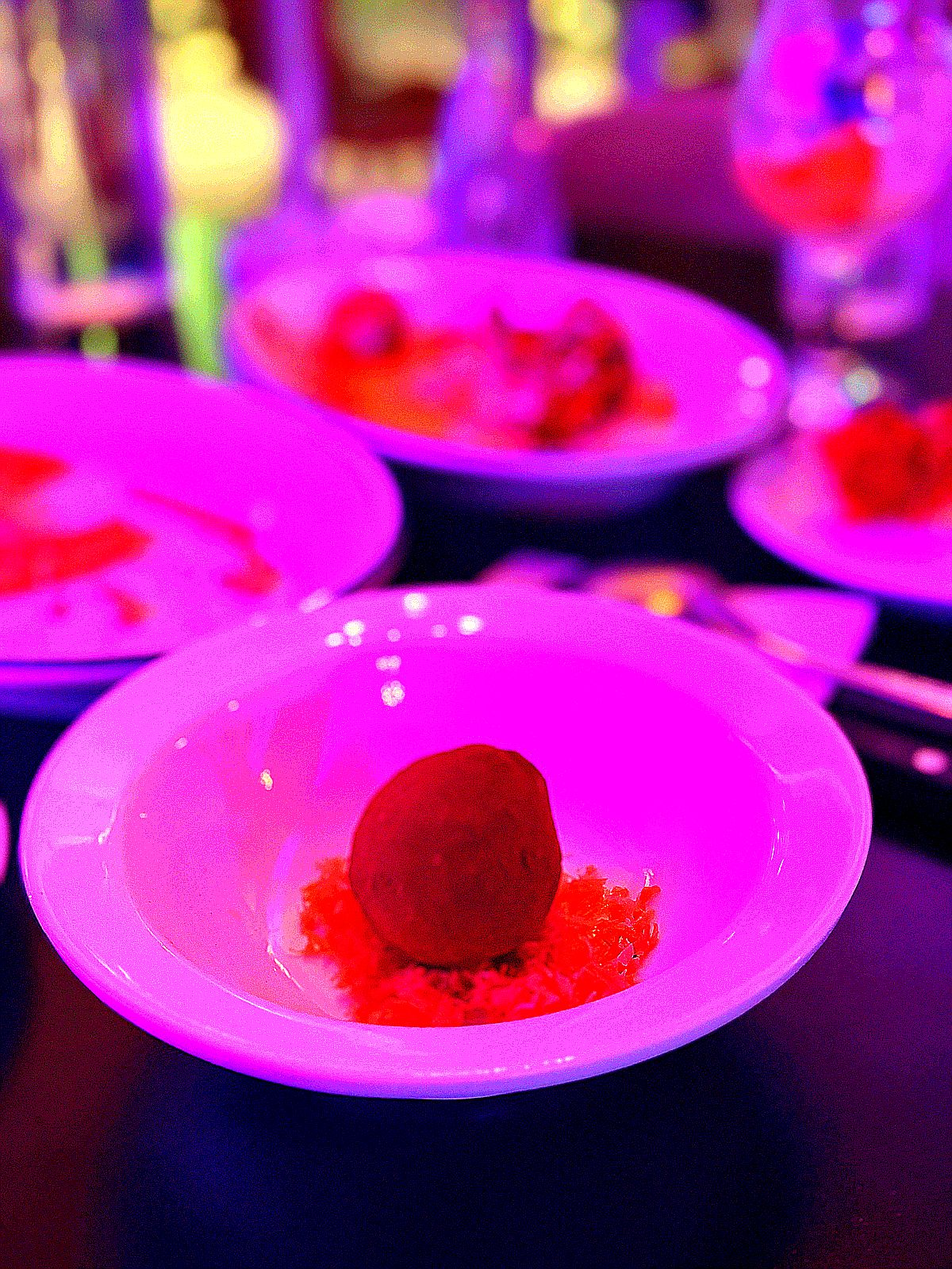
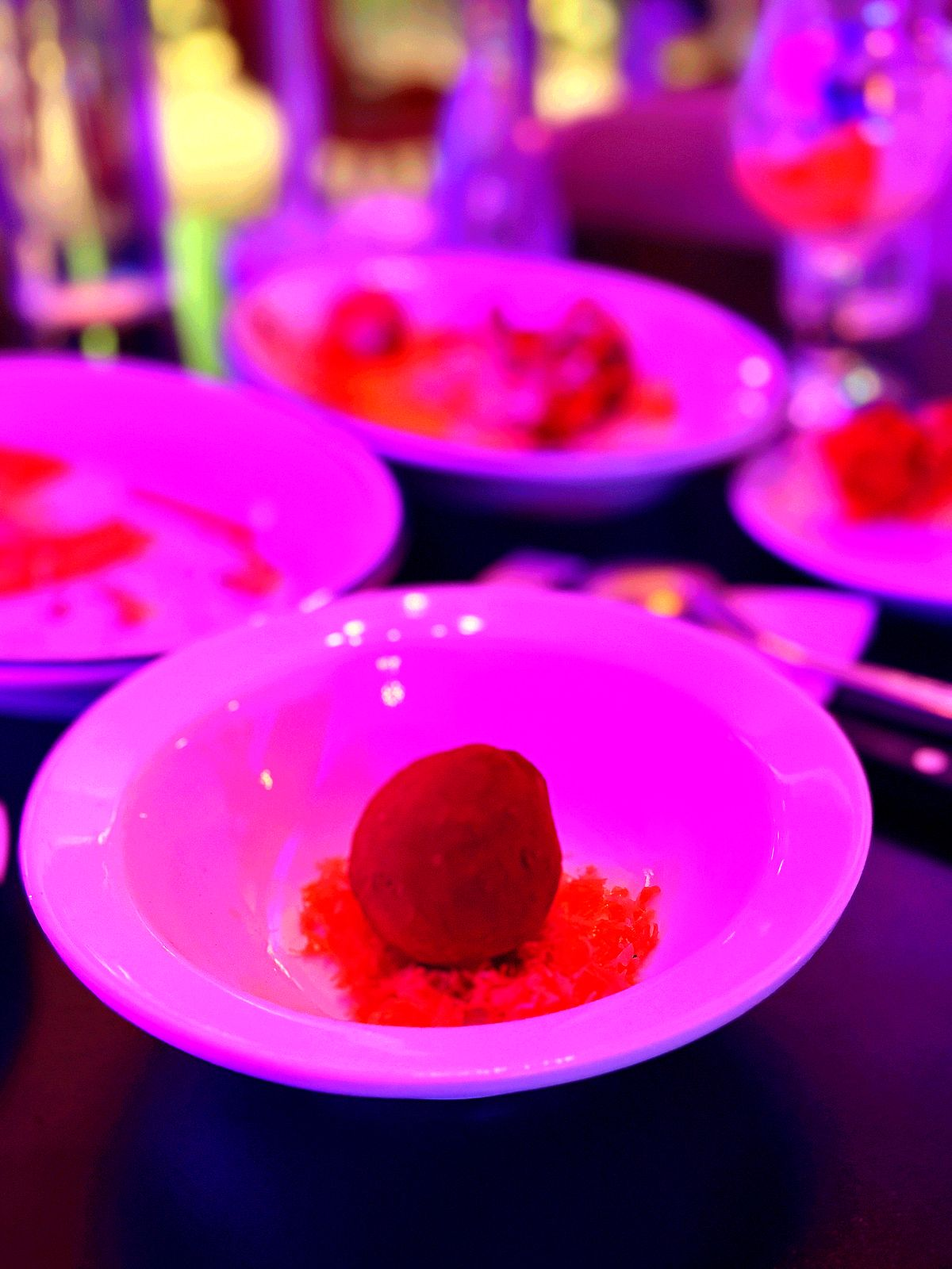
style: 블로그 그레이스클럽 파티 후기 이미지 전체 재생성 및 프라이빗 정보 제거
- 구글드라이브 원본 이미지 기반 일러스트화 (5장)
- 차 모니터 그림체와 동일한 효과 적용
- 파티장 2층 이미지 얼굴 블러 처리 (개인정보 보호)
- 웹 최적화 (JPEG 80% 품질, 1200px 이하 리사이징)

🤖 Generated with [Claude Code](https://claude.com/claude-code)

diff --git a/edit_grace_club_images.py b/edit_grace_club_images.py
@@ -1,0 +1,116 @@
+#!/usr/bin/env python3
+"""
+그레이스클럽 후기 블로그 이미지 일러스트화 스크립트
+"""
+from PIL import Image, ImageEnhance, ImageFilter
+import os
+
+# 경로 설정
+GDRIVE_BASE = "/Users/wonderit/wonderit@safeai.kr - Google Drive/My Drive/claudecode/uploads/images/260208-grace-club-socializing-party"
+BLOG_IMAGES = "/Users/wonderit/workplace/wonderx/wonderx-blog/images/blog"
+
+def illustrate_image(input_path, output_path, blur_faces=False, max_width=1200):
+    """
+    이미지를 일러스트 스타일로 변환
+    - Edge enhance (엣지 강조)
+    - Posterize (색상 단순화 16색)
+    - Color enhance (2.0배)
+    - Contrast (1.5배)
+    - Sharpness (2.5배)
+    - 개인정보 보호 (얼굴 영역 블러 처리)
+    """
+    print(f"Processing: {os.path.basename(input_path)}")
+
+    # 이미지 열기
+    img = Image.open(input_path)
+
+    # EXIF 회전 처리
+    try:
+        from PIL.ExifTags import TAGS
+        exif = img._getexif()
+        if exif:
+            for tag, value in exif.items():
+                if TAGS.get(tag) == 'Orientation':
+                    if value == 3:
+                        img = img.rotate(180, expand=True)
+                    elif value == 6:
+                        img = img.rotate(270, expand=True)
+                    elif value == 8:
+                        img = img.rotate(90, expand=True)
+    except:
+        pass
+
+    # 리사이징 (웹 최적화)
+    if img.width > max_width:
+        ratio = max_width / img.width
+        new_height = int(img.height * ratio)
+        img = img.resize((max_width, new_height), Image.Resampling.LANCZOS)
+
+    # 일러스트 효과 적용
+    # 1. Edge enhance
+    img = img.filter(ImageFilter.EDGE_ENHANCE)
+
+    # 2. Posterize (색상 단순화)
+    img = img.convert("RGB")
+    from PIL import ImageOps
+    img = ImageOps.posterize(img, 4)  # 16색 (2^4)
+
+    # 3. Color enhance
+    enhancer = ImageEnhance.Color(img)
+    img = enhancer.enhance(2.0)
+
+    # 4. Contrast
+    enhancer = ImageEnhance.Contrast(img)
+    img = enhancer.enhance(1.5)
+
+    # 5. Sharpness
+    enhancer = ImageEnhance.Sharpness(img)
+    img = enhancer.enhance(2.5)
+
+    # 6. 얼굴 블러 처리 (개인정보 보호)
+    if blur_faces:
+        # 상단 1/3 영역 블러 처리
+        width, height = img.size
+        blur_region = img.crop((0, 0, width, height // 3))
+        blur_region = blur_region.filter(ImageFilter.GaussianBlur(radius=20))
+        img.paste(blur_region, (0, 0))
+
+    # 저장 (JPEG 80% 품질)
+    img.convert("RGB").save(output_path, "JPEG", quality=80, optimize=True)
+
+    # 파일 크기 확인
+    size_kb = os.path.getsize(output_path) / 1024
+    print(f"  → Saved: {os.path.basename(output_path)} ({size_kb:.0f}KB)")
+
+# 이미지 생성
+print("\n=== 그레이스클럽 후기 이미지 일러스트화 ===\n")
+
+# 1. 스튜디오 입구 (IMG_0838)
+illustrate_image(
+    f"{GDRIVE_BASE}/IMG_0838.JPG",
+    f"{BLOG_IMAGES}/grace-club-entrance-illustrated.jpg",
+    blur_faces=False
+)
+
+# 2. 파티 내부 문쪽 (IMG_0839)
+illustrate_image(
+    f"{GDRIVE_BASE}/IMG_0839.JPG",
+    f"{BLOG_IMAGES}/grace-club-door-illustrated.jpg",
+    blur_faces=False
+)
+
+# 3. 파티장 2층 (IMG_0841)
+illustrate_image(
+    f"{GDRIVE_BASE}/IMG_0841.JPG",
+    f"{BLOG_IMAGES}/grace-club-interior-illustrated.jpg",
+    blur_faces=True  # 개인정보 보호
+)
+
+# 4. 디저트 (IMG_0842)
+illustrate_image(
+    f"{GDRIVE_BASE}/IMG_0842.JPG",
+    f"{BLOG_IMAGES}/grace-club-dessert-illustrated.jpg",
+    blur_faces=False
+)
+
+print("\n✅ 모든 이미지 생성 완료!")
